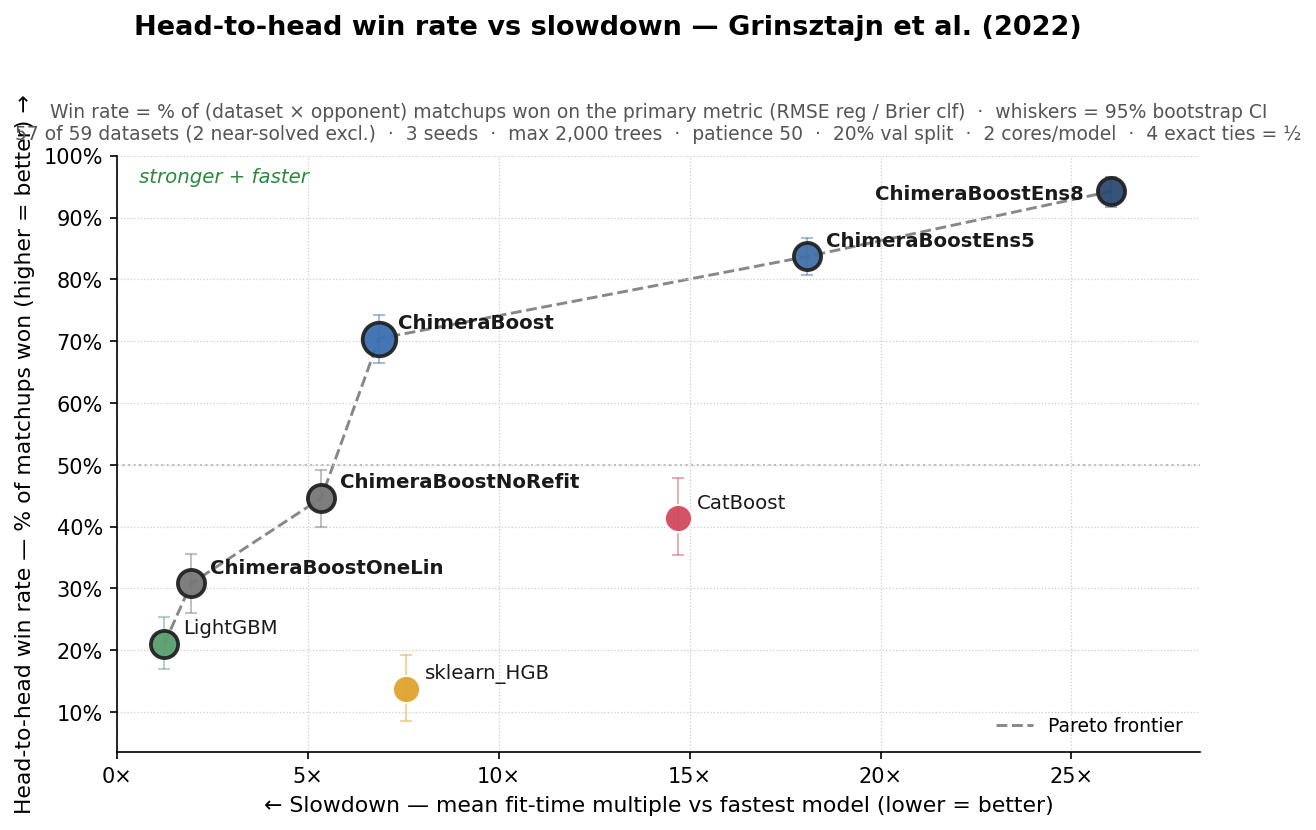
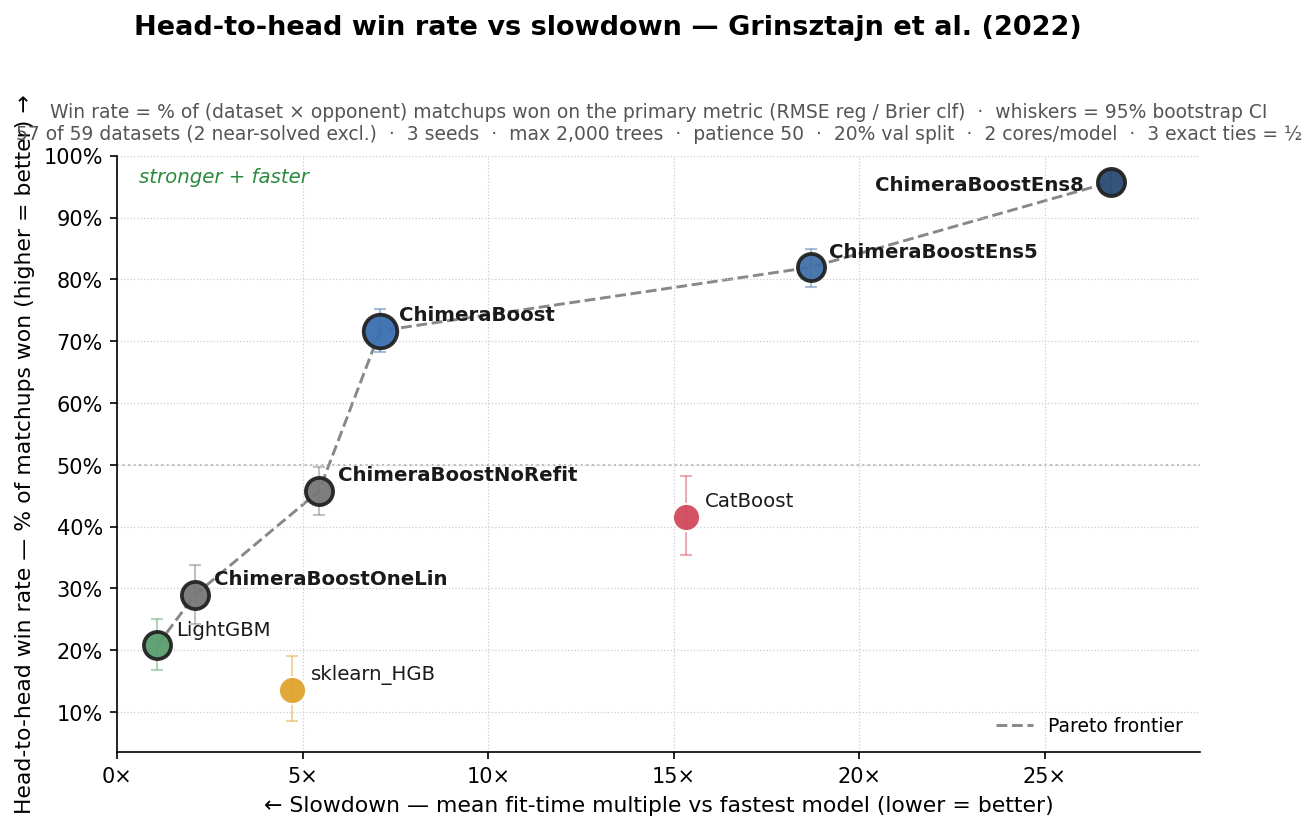
Refresh the Pareto chart after the 0.27.0 perf pass
Post-ship re-run of the quality-ladder co-run field (Grinsztajn, 3 seeds,
results/20260731-142609.json). Accuracy held within CI everywhere, as a
bit-identical pass must; the default's slowdown improved 9.4x -> 7.1x.
All five rungs remain on the frontier; CatBoost stays dominated (41.6% @
15.3x vs the default's 71.7% @ 7.1x). Reference points updated in the
pareto skill and PROJECT_STATUS.

diff --git a/docs/PROJECT_STATUS.md b/docs/PROJECT_STATUS.md
@@ -89,25 +89,26 @@ The harmonic mean collapses toward the **weaker leg**, so the blended diagnostic
 still answers "which task is weak". Ship decisions are unchanged (per-dataset sign
 tests; the win-rate axis is the same winner/loser evidence, aggregated).
 
-**Current standing** (`results/20260725-213827.json`, 3 seeds). The field is
-the `quality` ladder (benchmarks/SELECT_PLAN.md) plus the external models, all
-co-run so the columns share one field:
+**Current standing** (`results/20260731-142609.json`, 3 seeds — the post-0.27.0
+re-run; the 0.27.0 perf pass was bit-identical, so only the speed axis moved).
+The field is the `quality` ladder (benchmarks/SELECT_PLAN.md) plus the external
+models, all co-run so the columns share one field:
 
 | Model | `quality` | Win rate | 95% CI | Slowdown | Frontier |
 |---|---|--:|--:|--:|---|
-| ChimeraBoostEns8 | 5 | 94.0% | [91.7, 96.0] | 25.7× | yes |
-| ChimeraBoostEns5 | 4 | 83.7% | [80.7, 86.5] | 17.7× | yes |
-| **ChimeraBoost** *(default)* | **3** | **69.9%** | [64.7, 74.9] | **9.4×** | **yes** |
-| ChimeraBoostNoRefit | 2 | 45.6% | [41.1, 50.0] | 5.4× | yes |
-| CatBoost | — | 40.9% | [34.8, 47.1] | 14.1× | — |
-| ChimeraBoostOneLin | 1 | 31.1% | [26.3, 35.8] | 2.0× | yes |
-| LightGBM | — | 21.6% | [17.3, 26.1] | 1.1× | yes |
-| sklearn_HGB | — | 13.3% | [8.5, 18.5] | 4.8× | — |
+| ChimeraBoostEns8 | 5 | 95.7% | [94.0, 97.5] | 26.8× | yes |
+| ChimeraBoostEns5 | 4 | 82.0% | [78.7, 85.0] | 18.7× | yes |
+| **ChimeraBoost** *(default)* | **3** | **71.7%** | [68.2, 75.2] | **7.1×** | **yes** |
+| ChimeraBoostNoRefit | 2 | 45.7% | [41.9, 49.6] | 5.4× | yes |
+| CatBoost | — | 41.6% | [35.3, 48.1] | 15.3× | — |
+| ChimeraBoostOneLin | 1 | 28.9% | [24.2, 33.7] | 2.1× | yes |
+| LightGBM | — | 20.8% | [16.8, 25.1] | 1.1× | yes |
+| sklearn_HGB | — | 13.5% | [8.5, 19.0] | 4.7× | — |
 
-**Every ChimeraBoost rung is on the frontier**, which now runs from 2.0× to
-25.7×; LightGBM holds only the extreme-left corner. The default beats CatBoost
-on 49 of 59 datasets while fitting 1.9× faster than it, leaving CatBoost
-dominated on both axes.
+**Every ChimeraBoost rung is on the frontier**, which now runs from 2.1× to
+26.8×; LightGBM holds only the extreme-left corner. The default beats CatBoost
+on 46 of 57 scored datasets while fitting ~2.6× faster than it, leaving
+CatBoost dominated on both axes.
 
 Win rate is **field-relative** — it is the share of (dataset × opponent)
 matchups won, so adding or removing arms moves every row. These numbers are

diff --git a/.claude/skills/pareto/SKILL.md b/.claude/skills/pareto/SKILL.md
@@ -44,10 +44,10 @@ Notes:
   at minimum) — mixing runs from different machines/fields breaks the %, win-rate, and speed columns.
 - `images/pareto.png` + `images/winrate_matrix.png` are committed — commit the refresh after a
   shipped change. (README headline is the TabArena chart, deliberate since fcdc874.)
-- Reference points (2026-07-25, run 20260725-213827 — the `quality` ladder co-run): Ens8 94.0% @ 25.7×,
-  Ens5 83.7% @ 17.7×, ChimeraBoost (the default, quality=3) 69.9% @ 9.4×, NoRefit 45.6% @ 5.4×,
-  OneLin 31.1% @ 2.0× — all five on the frontier; CatBoost 40.9% @ 14.1× (dominated on both axes),
-  LightGBM 21.6% @ 1.1× (frontier), HGB 13.3% @ 4.8×.
+- Reference points (2026-07-31, run 20260731-142609 — the post-0.27.0 `quality` ladder re-run):
+  Ens8 95.7% @ 26.8×, Ens5 82.0% @ 18.7×, ChimeraBoost (the default, quality=3) 71.7% @ 7.1×,
+  NoRefit 45.7% @ 5.4×, OneLin 28.9% @ 2.1× — all five on the frontier; CatBoost 41.6% @ 15.3×
+  (dominated on both axes), LightGBM 20.8% @ 1.1× (frontier), HGB 13.5% @ 4.7×.
 - Win rate is FIELD-RELATIVE (% of dataset×opponent matchups won), so adding or removing arms moves
   every row. Compare only within one run: the older five-arm field read the default at 55.7% @ 5.1×.
 - Contracts are pinned in `tests/test_strength_viz.py`.
